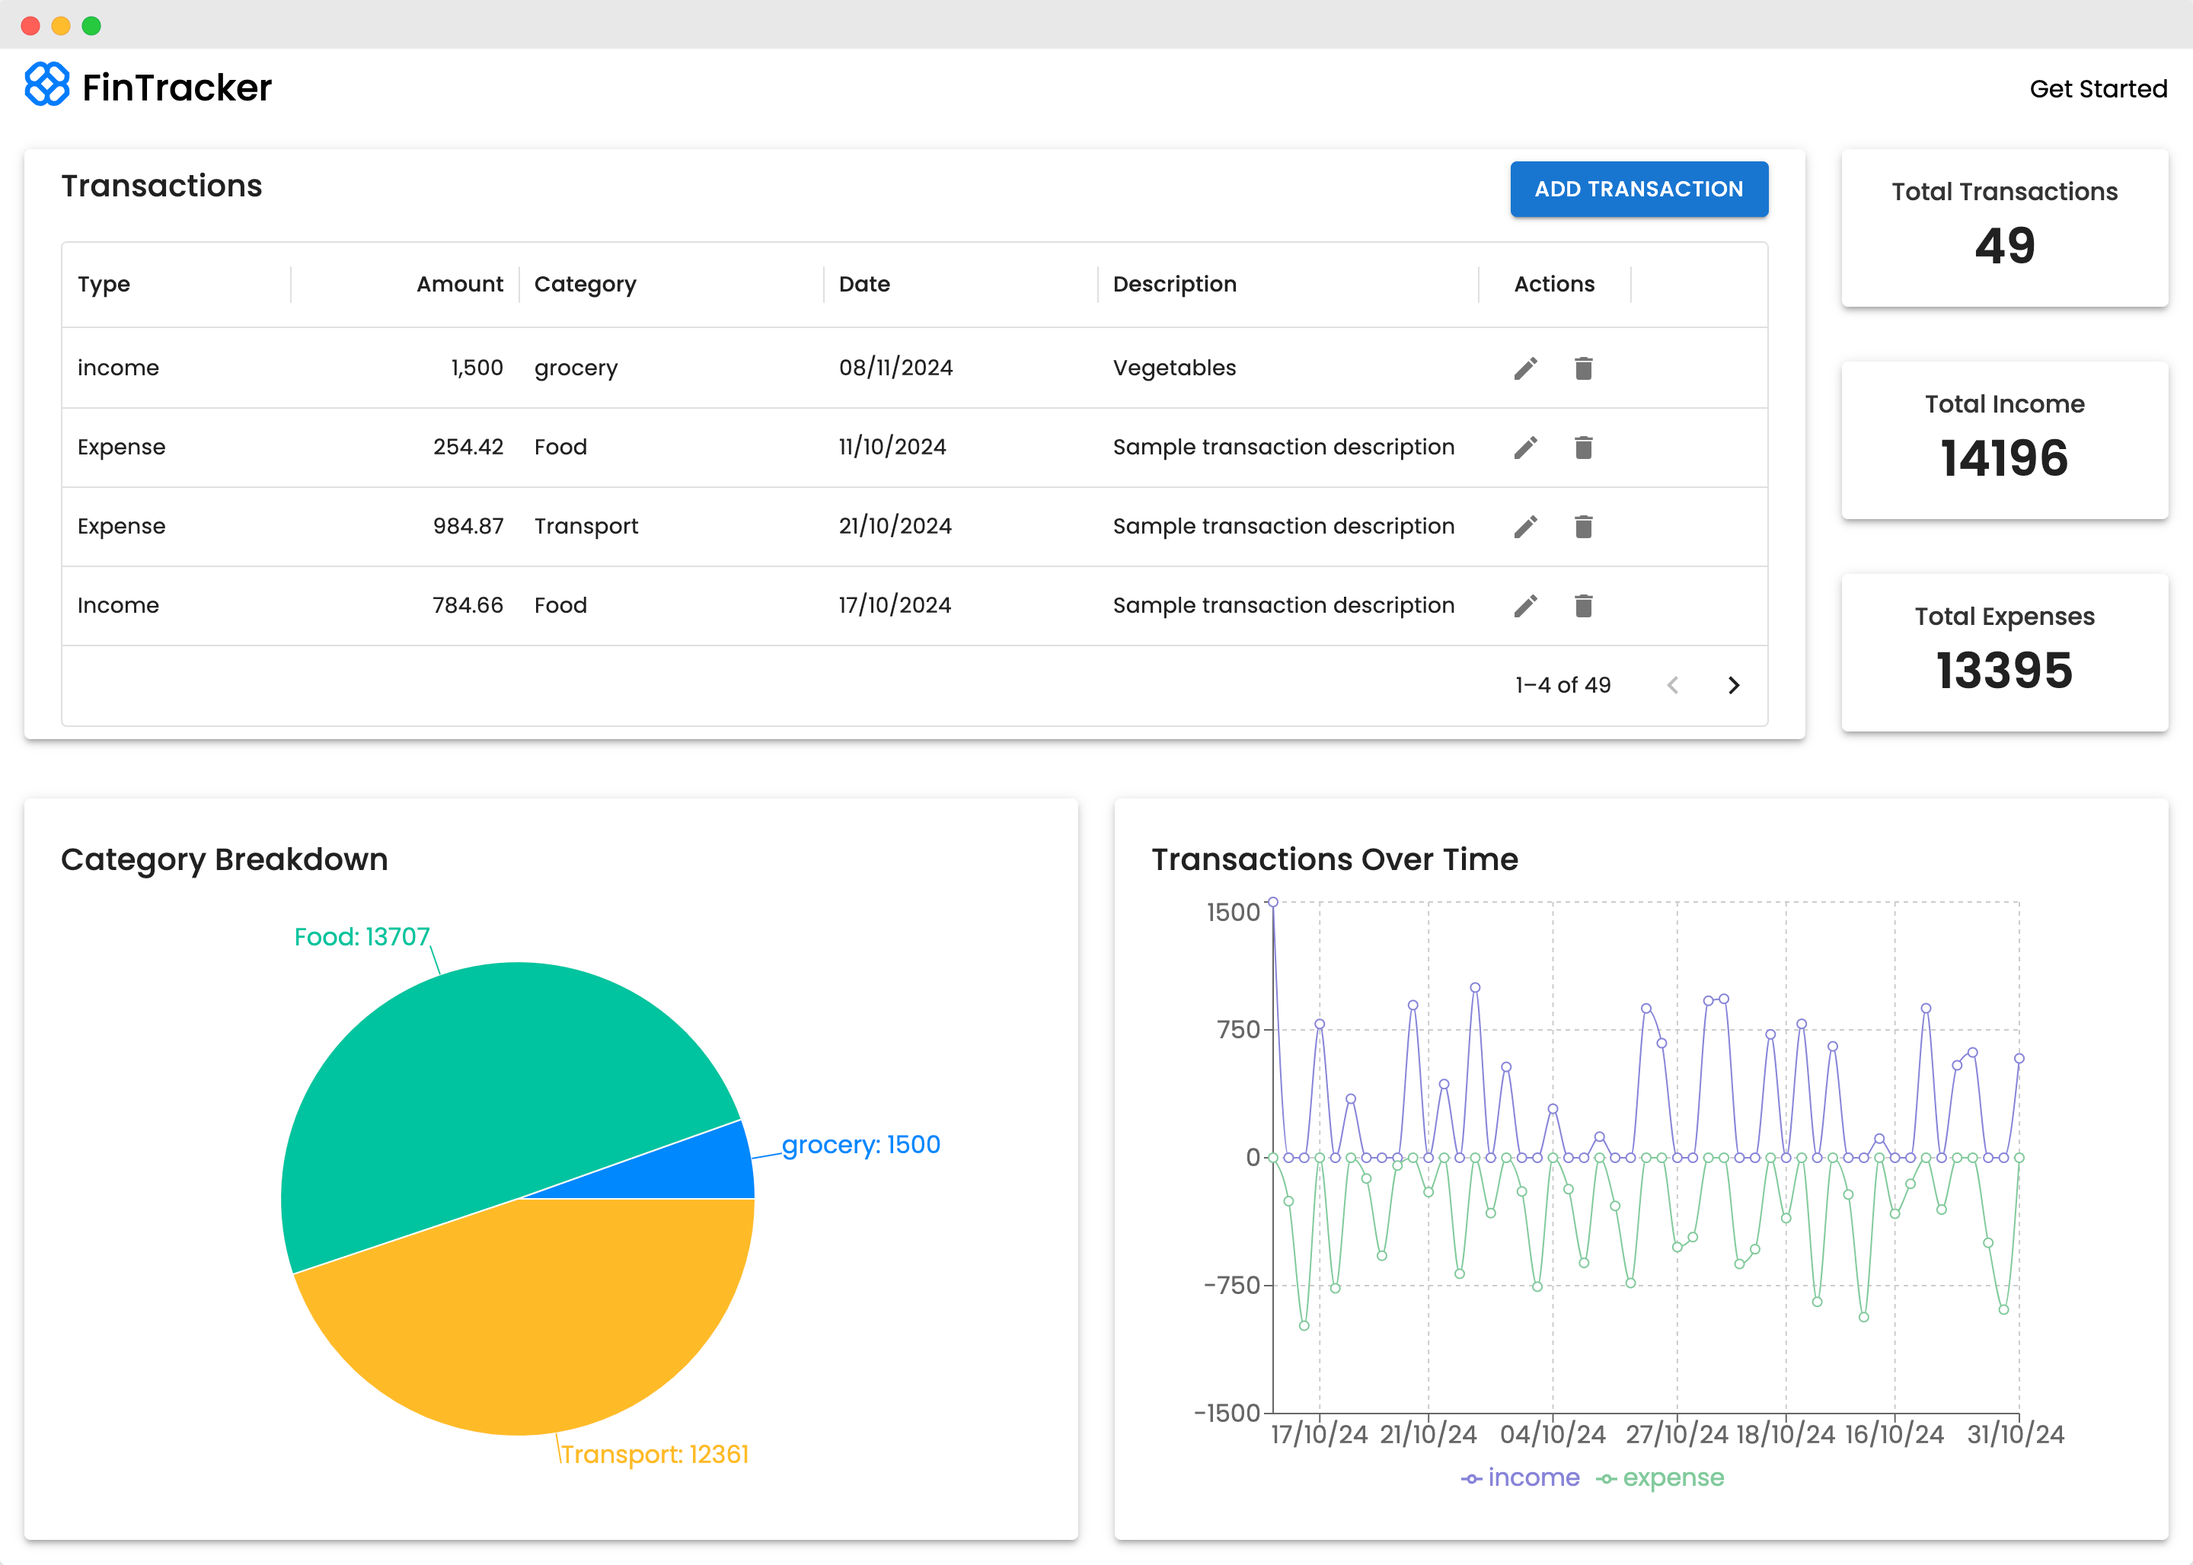
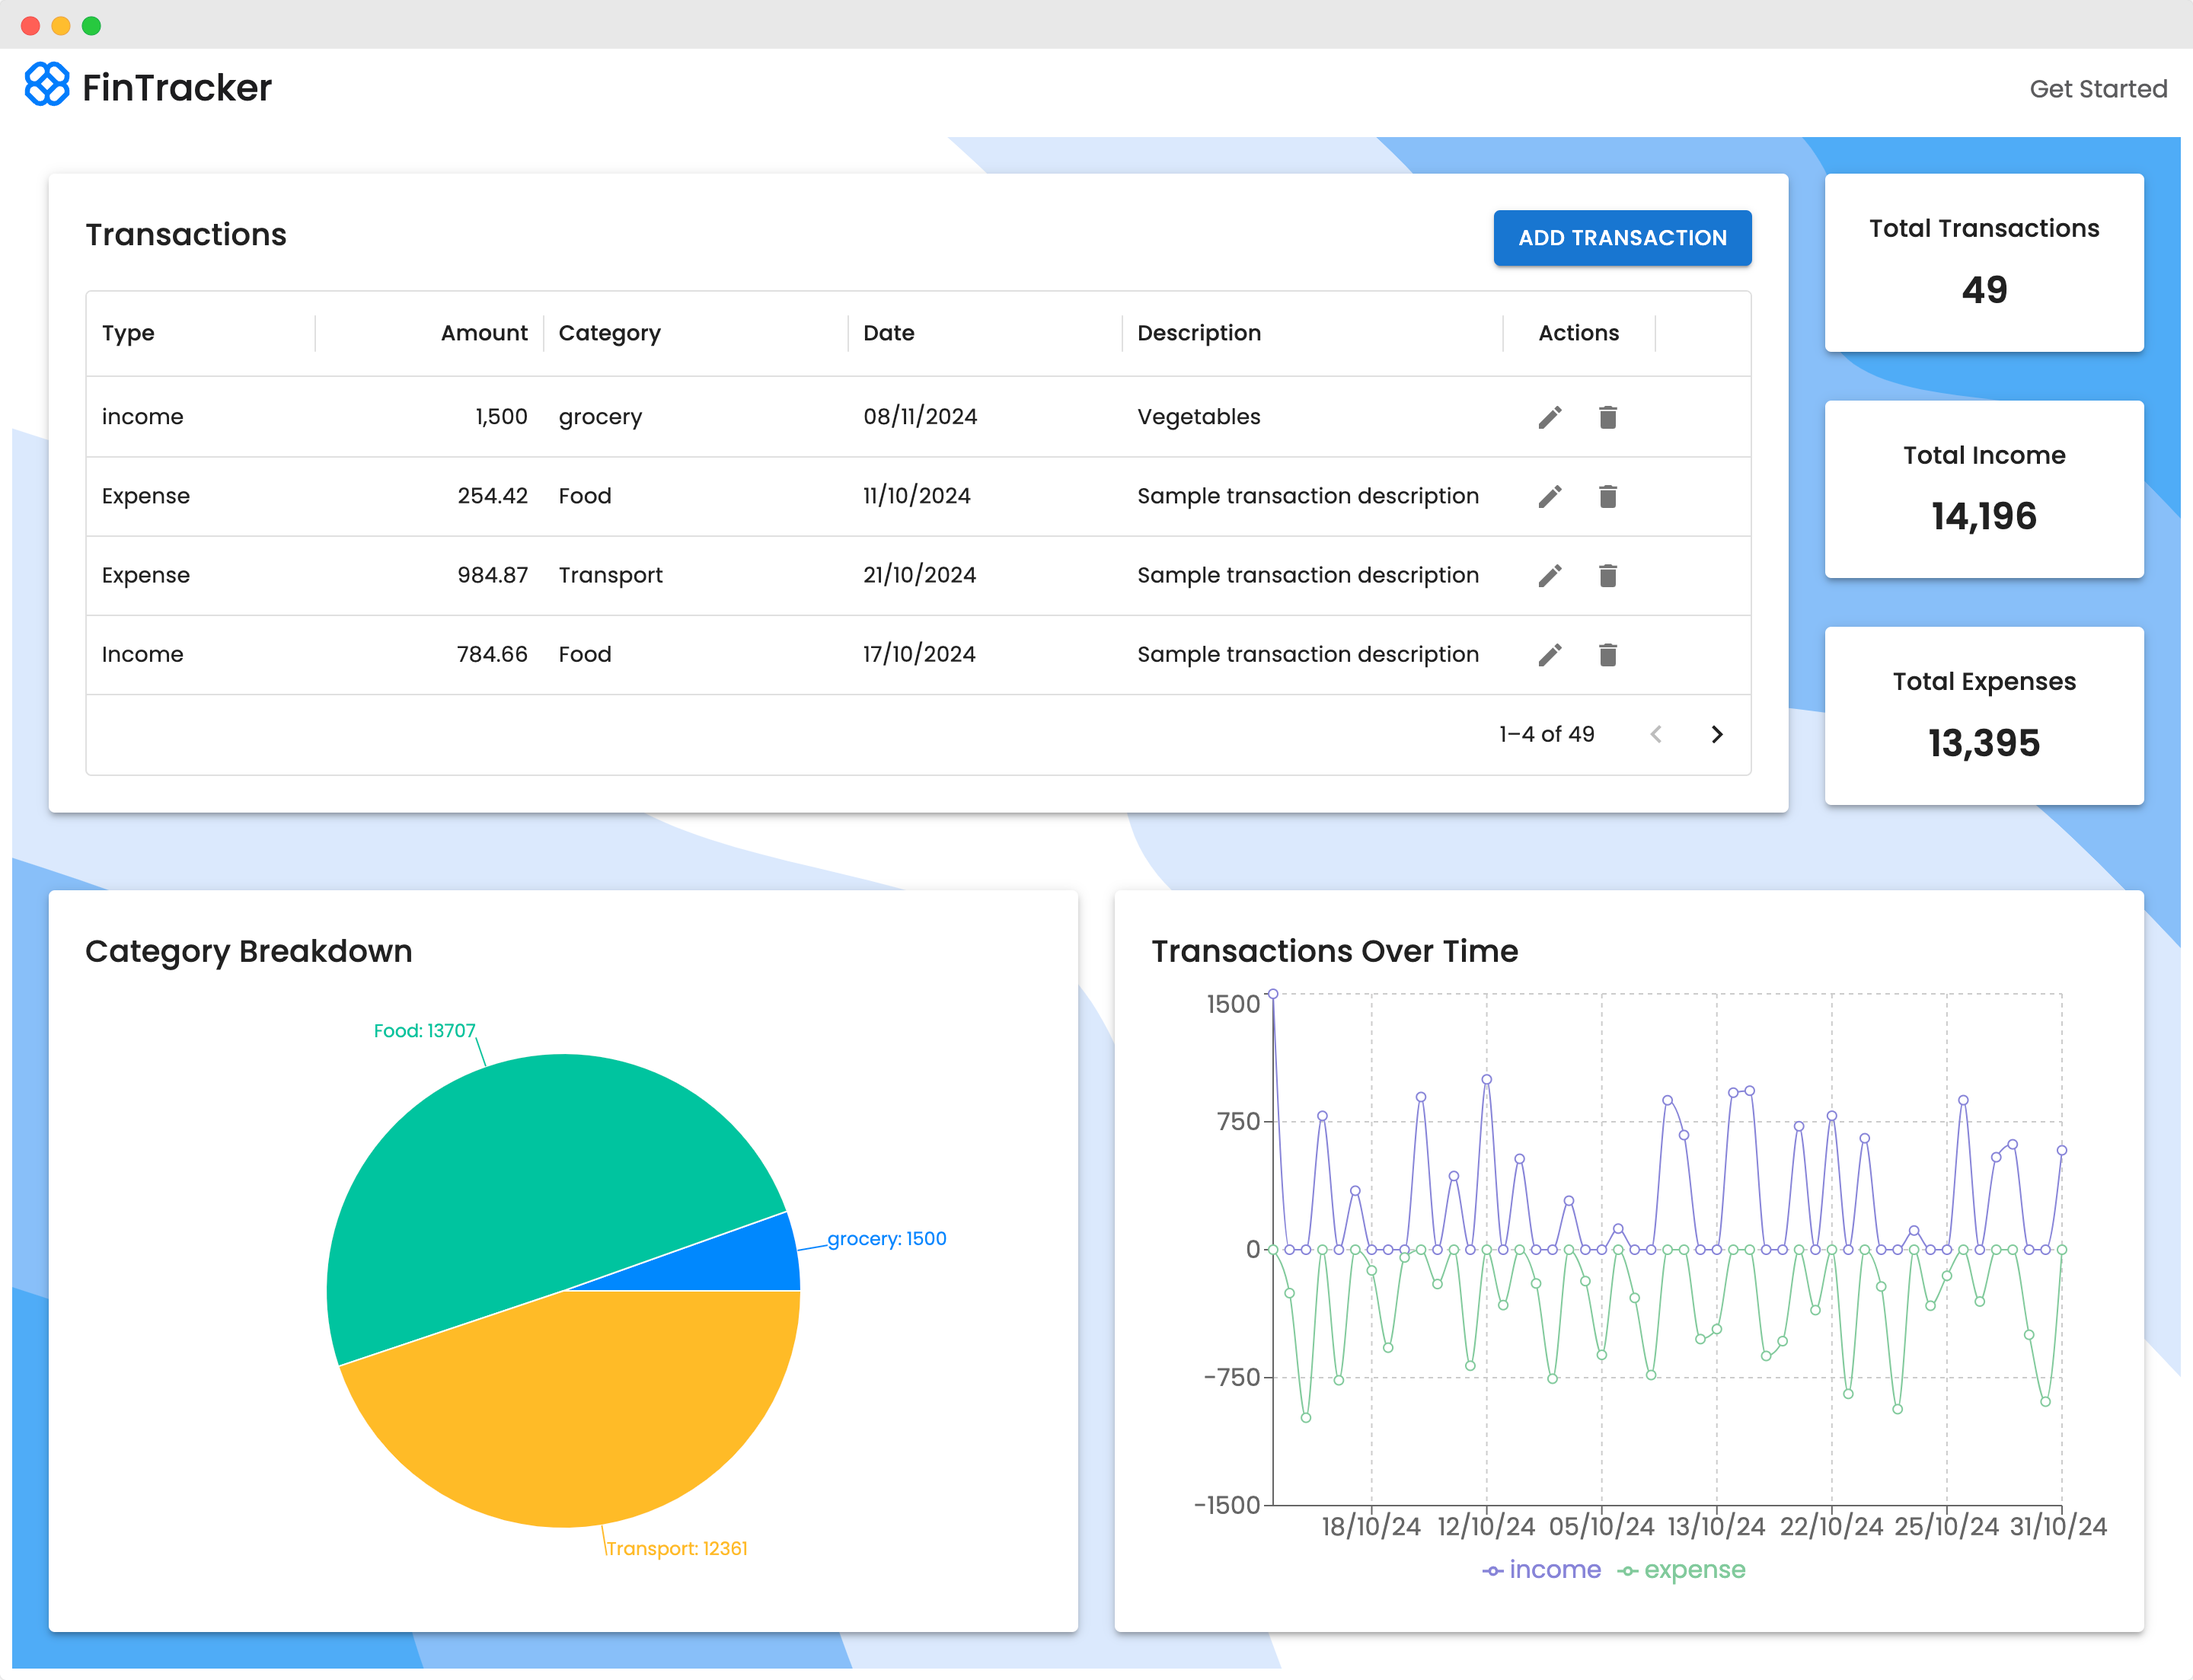
Feat: Add styles to spaces pages

diff --git a/src/components/CreateSpaceSection/SpacesSection.tsx b/src/components/CreateSpaceSection/SpacesSection.tsx
@@ -4,6 +4,7 @@ import { createSpace, getSpaces } from '../../api';
 import { Container, Grid2 as Grid } from '@mui/material';
 import SpacesList from './SpacesList';
 import SpacesForm from './SpacesForm';
+import spacesBlob from '../../assets/blob.svg';
 
 const SpacesSection: React.FC = () => {
   const [title, setTitle] = useState('');
@@ -36,7 +37,15 @@ const SpacesSection: React.FC = () => {
 
 
   return (
-    <Container maxWidth="xl" style={{ marginTop: '2rem' }}>
+    <Container maxWidth="xl" style={{ marginTop: '2rem' }} sx={{
+      minHeight: '100vh',
+      backgroundImage: `url(${spacesBlob})`,
+      backgroundRepeat: 'no-repeat',
+      backgroundSize: 'cover',
+      backgroundPosition: 'center',
+      padding: { xs: '1rem', sm: '2rem', md: '3rem' },
+      overflow: 'hidden',
+    }}>
       <Grid container spacing={2}>
         <Grid size={{ xs: 12, md: 6 }}>
           <SpacesForm title={title} handleSubmit={handleSubmit} handleChange={handleChange} isPending={isPending} error={createSpaceError} />

diff --git a/src/components/SpacesPage/Spaces.tsx b/src/components/SpacesPage/Spaces.tsx
@@ -9,6 +9,7 @@ import LineChartComponent from '../Visualization/LineChartComponent';
 import { getLineChartData, getPieChartData, getTotalExpenses, getTotalIncome, getTotalTransactions } from '../../utils';
 import PieChartComponent from '../Visualization/PieChartComponent';
 import KpiCard from '../Visualization/KpiCard';
+import blob from '../../assets/blob.svg';
 
 const Spaces: React.FC = () => {
   const { spaceId } = useParams();
@@ -33,7 +34,14 @@ const Spaces: React.FC = () => {
   };
 
   return (
-    <Box sx={{ padding: { xs: 1, sm: 2, md: 3 } }}>
+    <Box sx={{
+      padding: { xs: 1, sm: 2, md: 3 }, minHeight: '100vh',
+      backgroundImage: `url(${blob})`,
+      backgroundRepeat: 'no-repeat',
+      backgroundSize: 'cover',
+      backgroundPosition: 'center',
+      overflow: 'hidden',
+    }}>
       <Grid container spacing={3}>
         <Grid size={{ xs: 12, sm: 12, md: 12, lg: 10 }}>
           <Paper elevation={3} sx={{ padding: 3 }}>

diff --git a/src/components/CreateSpaceSection/SpacesList.tsx b/src/components/CreateSpaceSection/SpacesList.tsx
@@ -21,7 +21,7 @@ const SpacesList: React.FC<SpaceList> = ({ spaces, isLoading, error }) => {
     <Container>
       <Typography variant="h5" gutterBottom sx={{
         color: '#1D1D1F',
-        fontWeight: 600,
+        fontWeight: 500,
       }}>Your Spaces</Typography>
       <List>
         {spaces.length > 0 ? spaces?.map((space: { id: number; title: string; spaceId: string }) => (
